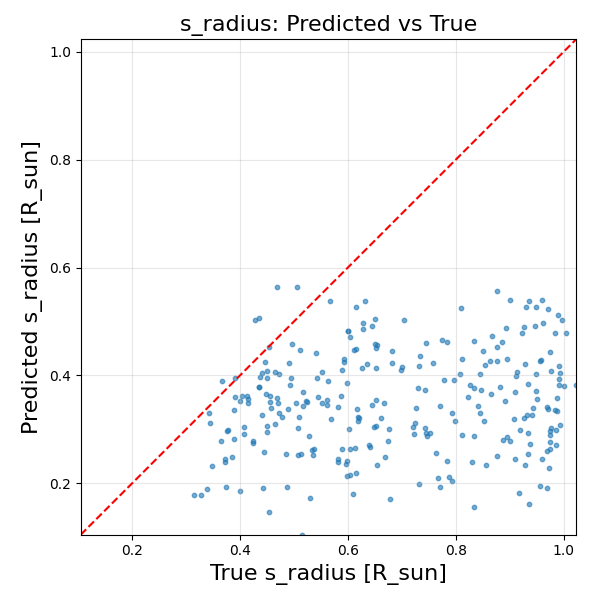
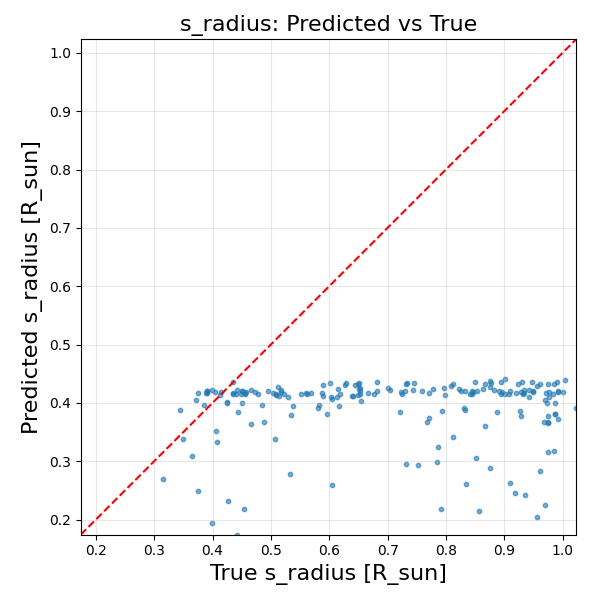
suggested changes

diff --git a/ANN/cKOI_Analysis.py b/ANN/cKOI_Analysis.py
@@ -31,19 +31,19 @@ model.eval()
 comparison_labels = ["p_teff", "s_teff", "p_radius", "s_radius"]
 
 # ===== PREDICTION =====
-# new_spectrum_file = "Koi1422_HET.txt"  
+new_spectrum_file = "Koi1422_HET.txt"  
 
-# predicted_labels = predict_stellar_params_from_spectrum(
-#     filename=new_spectrum_file,
-#     model=model,
-#     x_scaler=x_scaler,
-#     y_scaler=y_scaler,
-#     device=device
-# )
+predicted_labels = predict_stellar_params_from_spectrum(
+    filename=new_spectrum_file,
+    model=model,
+    x_scaler=x_scaler,
+    y_scaler=y_scaler,
+    device=device
+)
 
-# print("\nPredicted stellar parameters:")
-# for k, v in predicted_labels.items():
-#     print(f"{k:10s}: {v:.4f}")
+print("\nPredicted stellar parameters:")
+for k, v in predicted_labels.items():
+    print(f"{k:10s}: {v:.4f}")
 
 def save_prediction_tex(star_name, predicted_labels, true_values, output_dir):
 
@@ -112,6 +112,19 @@ derived_file = "Derived Star.tex"
 spec_dirs = [koi1, koi2, koi3]
 
 derived_dict = parse_derived_star_tex(derived_file)
+filtered_dict = {}
+
+for koi_number, values in derived_dict.items():
+    p_teff = values[0]
+    s_teff = values[3]
+
+    if p_teff <= 6200 and s_teff <= 6200:
+        filtered_dict[koi_number] = values
+
+print(f"Removed {len(derived_dict) - len(filtered_dict)} hot stars (>6200 K)")
+derived_dict = filtered_dict
+
+
 matched_files = collect_matching_spectra(spec_dirs, derived_dict)
 
 print(f"Matched {len(matched_files)} stars")

diff --git a/ANN/bANN.py b/ANN/bANN.py
@@ -49,7 +49,7 @@ def train_and_evaluate():
     y = df[label_names].values
 
     X = X / np.median(X, axis=1, keepdims=True)
-    X = apply_additive_noise(X, snr=30)
+    X = apply_additive_noise(X, snr=5)
 
     x_scaler = StandardScaler()
     y_scaler = StandardScaler()

diff --git a/README.md b/README.md
@@ -1,37 +1,36 @@
 ### Updates explained:
 
-- See in ANN/cKOI_Analysis.py how I parse through which files in our KOI Spec 1, 2, and 3 files are in our ANN/Derived Star.tex with affiliated predicted Teff and Radius values.
+- Updated SNR and filtered out 83 stars with Teff's above 6200 K leaving us with 195 stars.
 
 ### RESULTS
 
-Not good. These are the metrics we trained our model on, and used to predict all the KOI values.
-
-| Parameter | MRE |
-|---|---|
-| p_teff | 0.93% |
-| s_teff | 1.30% |
-| p_logg | 0.15% |
-| s_logg | 0.27% |
-| p_radius | 1.62% |
-| s_radius | 3.83% |
+Median Relative Errors per parameter:
+p_teff    : 1.32%
+s_teff    : 2.65%
+p_logg    : 0.23%
+s_logg    : 0.60%
+p_radius  : 2.62%
+s_radius  : 8.24%
 
 As you can see with KOI 1422, it aligns quite well with what we can be assured are valid estimated values, from both Kendall's model and my ANN
 
-| Parameter | Predicted | Truth |
-|---|---|---|
-| p_teff | 3819.8118 | 3665 |
-| s_teff | 3359.6536 | 3372 |
-| p_logg | 4.8371 | 5.03 |
-| s_logg | 5.0052 | 4.53 |
-| p_radius | 0.4530 | 0.41 | 
-| s_radius | 0.2692 | 0.274 |
+KOI 1522 Truth stellar parameters:
+p_teff    : 3665
+s_teff    : 3372
+p_logg    : 5.03
+s_logg    : 4.53
+p_radius  : 0.41
+s_radius  : 0.274
+
+KOI 1422 Predicted stellar parameters:
+p_teff    : 3771.2600
+s_teff    : 3333.8699
+p_logg    : 4.8240
+s_logg    : 5.0250
+p_radius  : 0.4568
+s_radius  : 0.2585
 
 
 ![Predicted vs True Primary Teff](/ANN/results/pred_vs_true_p_teff.png)
-
-See the other files in folder ANN/results
-
-HOWEVER, when we look at our prediction comparison results for the rest, results vary drastically, and worse for our secondary Teff values. I wanted to make sure it wasn't an issue with my plot function and double checked with all the tables in our Predicted Tables folder, and there are genuine LARGE inconsistencies between what our ANN predcited versus our previous model.
-
 ![ANN vs Derived Primary Teff](/ANN/Prediction_Plots/pred_vs_true_p_teff.png)
 ![ANN vs Derived Secondary Teff](/ANN/Prediction_Plots/pred_vs_true_s_teff.png)
